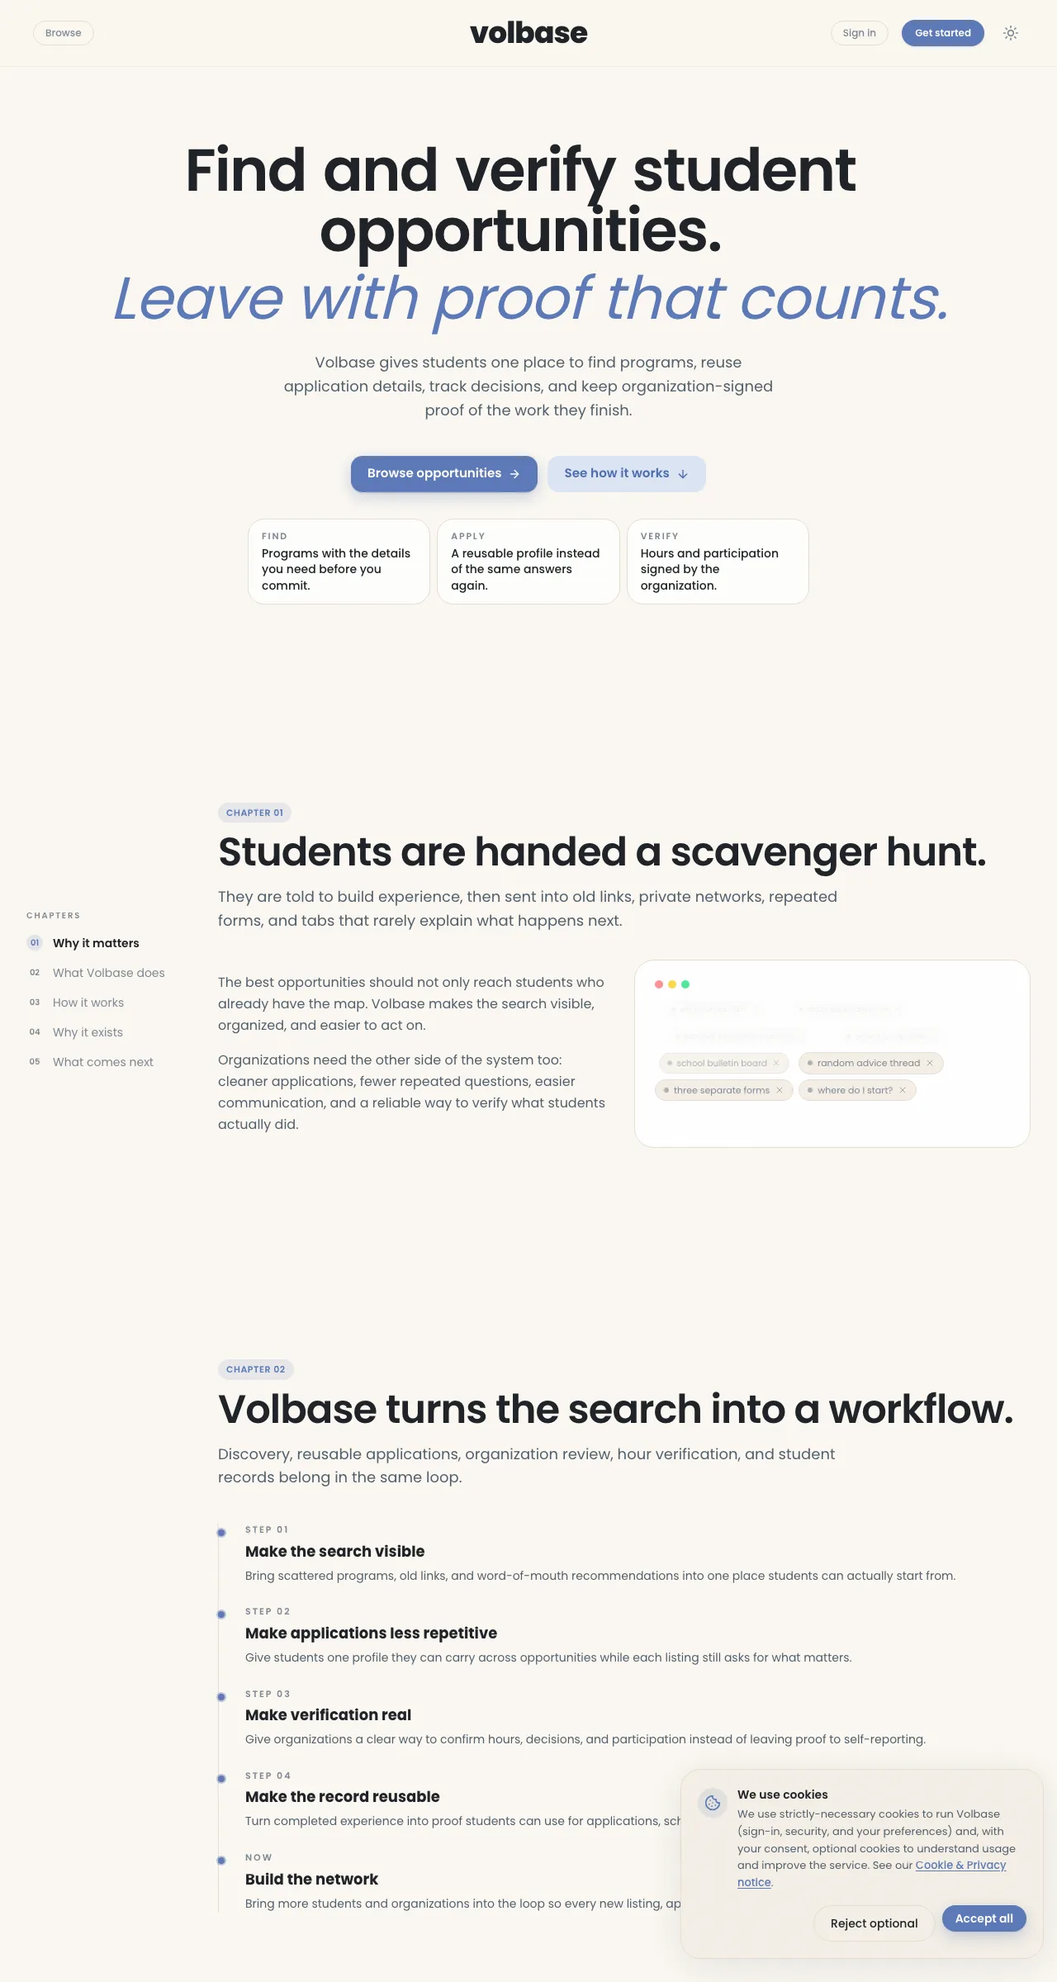
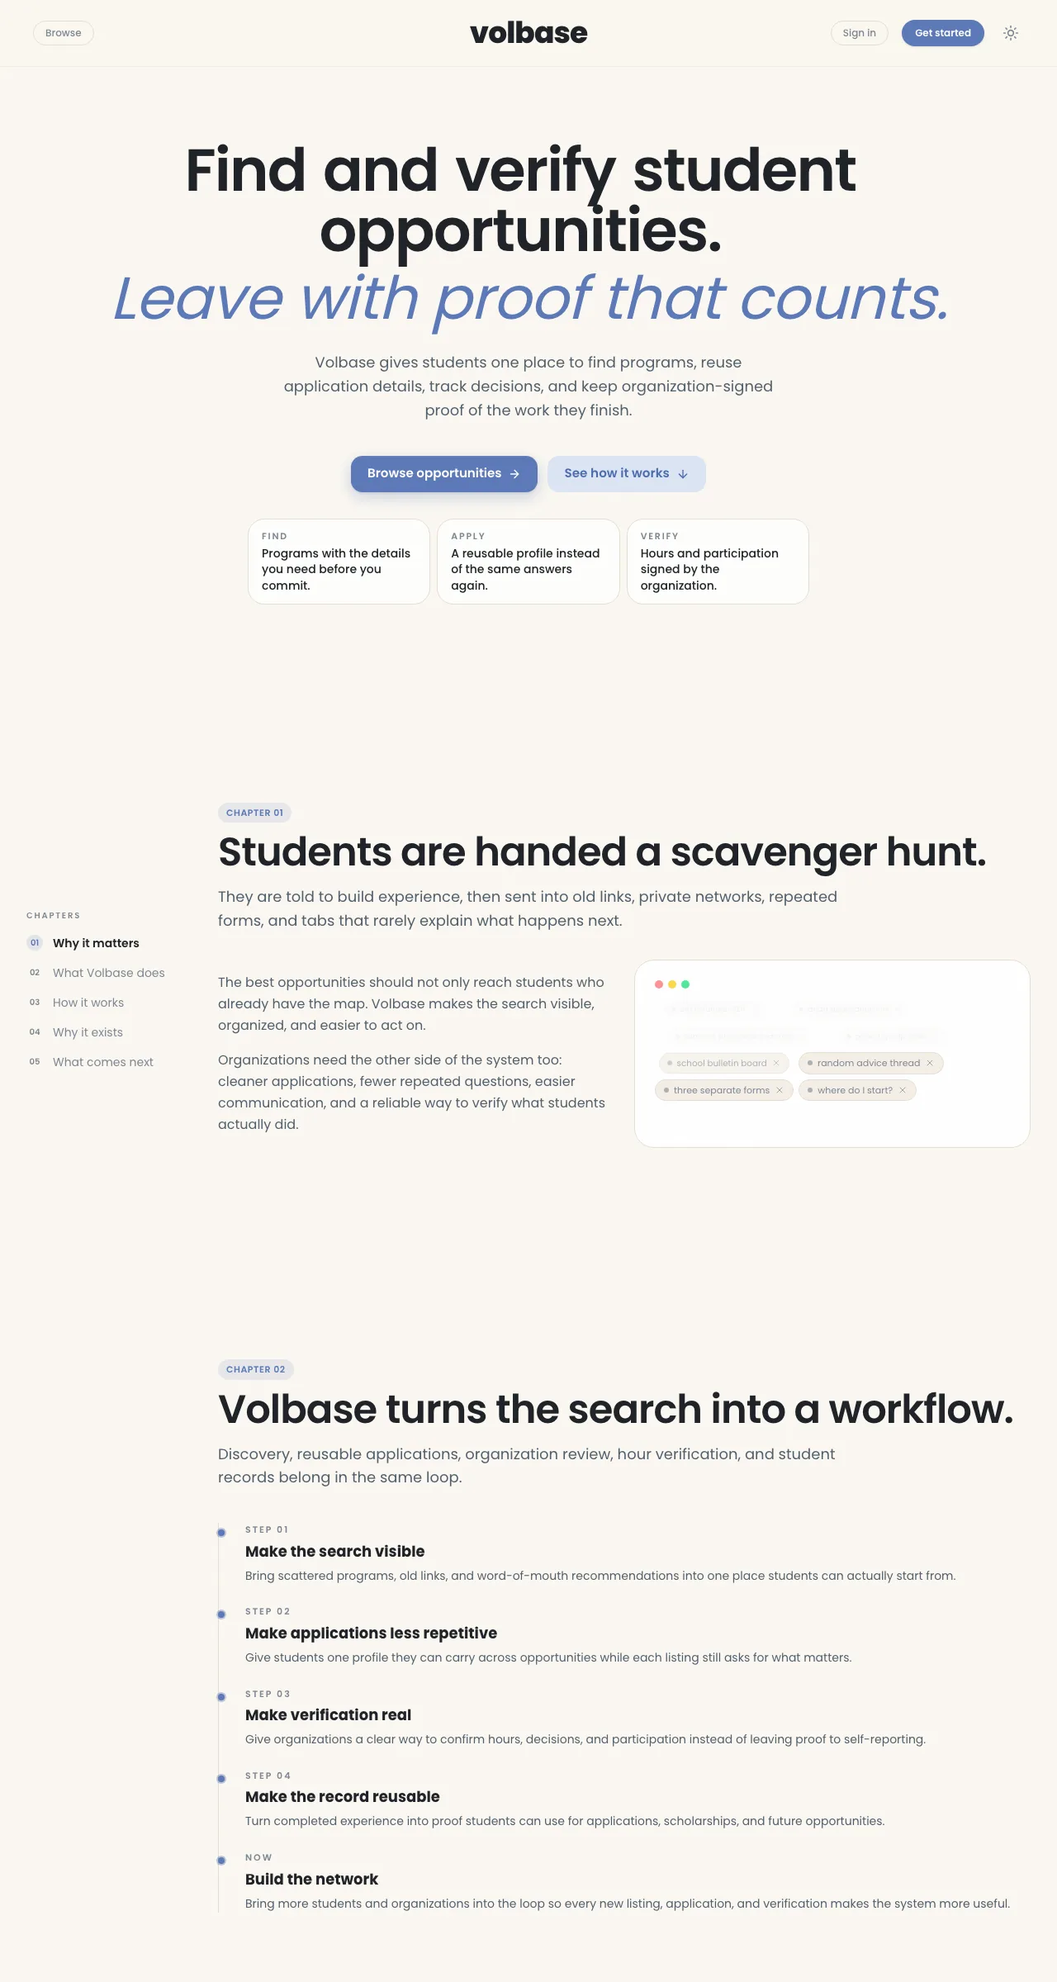
the top-tier pass: craft, live signals, a palette, and words that say each thing once
Research first (three agents: how the best portfolios write, what their shipped CSS actually does, and a cold critique of this page at 6.5/10), then:
- one house easing (.16,1,.3,1) on every hover, press, and settle; 180 ms colour, 260 ms position; accent-tinted selection; text cursors on the sims
- reveals typed by element: masked lines for headlines, lift-and-settle for tiles, a clip wipe for photos, the frame rising once on first entry
- ⌘K (or /) opens a Spotlight-style palette: the four products with ⌘1-4, the sections, GitHub, volbase, Rin's source; arrows, enter, esc; the Work menu now carries the sections too so phones can move
- live signals beside the clock: the weather near Detroit from a keyless API, cached fifteen minutes; the hero face gets sleepy after midnight; the footer names the real commit and deploy date at build time
- from the critique: volbase capture retaken with the cookie banner dismissed; Kyou notification under the status bar; nav nearly solid so dark panels no longer seam it; copy hangs from the frame's top edge and the frame scales from its top; Rin and Market frames sized to their content; flipped tiles keep their name; the walk drifts slowly; demo pill off the phone and off narrow frames; mobile briefing clamped; mobile photo counter; balanced hero and photos lines; About stack as a flex list; Work menu anchored to its trigger
[…]

Changed region(s): [[0.6562, 0.9062, 0.9688, 1.0]]

diff --git a/src/styles/base.css b/src/styles/base.css
@@ -22,7 +22,7 @@ body {
   transition: background-color var(--t-slow) var(--settle);
 }
 
-::selection { background: rgb(var(--espresso) / .12); color: var(--ink); }
+::selection { background: color-mix(in oklab, var(--accent) 22%, transparent); color: var(--ink); }
 
 h1, h2, h3, h4 { margin: 0; font-weight: 600; letter-spacing: var(--track-title); line-height: 1.02; text-wrap: balance; }
 p { margin: 0; }
@@ -61,6 +61,12 @@ ul, ol { margin: 0; padding: 0; list-style: none; }
 .sq { border-radius: var(--r, var(--r-card)); }
 @supports (corner-shape: squircle) { .sq { corner-shape: squircle; } }
 
+/* ── interactive states: one easing, one speed band, everywhere ───
+   hover changes colour in 180 ms and position in 260 ms on the house
+   curve; press is a 120 ms settle; focus is the accent ring. */
+a, button, .tile, .chip, .copy, .shot { transition: color .18s var(--ease), background-color .18s var(--ease), border-color .18s var(--ease), box-shadow .26s var(--ease), transform .26s var(--ease); }
+a:active, button:active { transition-duration: .12s; }
+
 /* ── buttons ─────────────────────────────────────────────────────── */
 .btn {
   --r: var(--r-btn);
@@ -68,10 +74,10 @@ ul, ol { margin: 0; padding: 0; list-style: none; }
   height: 48px; padding-inline: 22px;
   font-size: var(--t-ui); font-weight: 600; letter-spacing: -0.005em;
   border-radius: var(--r); position: relative; isolation: isolate;
-  transition: transform var(--t-base) var(--spring), box-shadow var(--t-base) var(--settle), background-color var(--t-base) var(--settle);
   will-change: transform;
 }
-.btn:active { transform: scale(.97); }
+.btn:hover { transform: translateY(-1px); }
+.btn:active { transform: translateY(0) scale(.98); }
 .btn-solid { background: var(--solid); color: var(--solid-fg); box-shadow: var(--shadow-btn), var(--inset-hi); }
 .btn-solid:hover { box-shadow: 0 4px 8px rgb(var(--espresso) / .14), 0 18px 34px -12px rgb(var(--espresso) / .45), var(--inset-hi); }
 .btn-ghost { background: rgb(var(--espresso) / .05); color: var(--ink); }
@@ -85,7 +91,6 @@ ul, ol { margin: 0; padding: 0; list-style: none; }
   display: inline-flex; align-items: center; gap: 6px; height: 28px; padding-inline: 10px;
   font-family: var(--mono); font-size: var(--t-tiny); font-weight: 520; letter-spacing: .01em;
   color: var(--ink-2); background: rgb(var(--espresso) / .06); border-radius: var(--r);
-  transition: background-color var(--t-fast) var(--settle), color var(--t-fast) var(--settle), transform var(--t-base) var(--spring);
 }
 .chip:hover { background: var(--accent-soft); color: var(--accent); transform: translateY(-1px); }
 
@@ -101,11 +106,20 @@ ul, ol { margin: 0; padding: 0; list-style: none; }
   padding: 3px 7px; border-radius: 999px; backdrop-filter: blur(6px); pointer-events: none;
 }
 
-/* ── reveal primitives (JS splits headlines into lines) ──────────── */
+/* ── reveal primitives, typed by element (JS splits headlines into lines).
+   Only the JS page hides anything; without it the whole page is simply there. */
 .line { display: block; overflow: clip; }
-.line > .line-in { display: block; transform: translateY(110%); }
-.reveal { opacity: 0; transform: translateY(18px); }
-.is-in .reveal, .reveal.is-in { opacity: 1; transform: none; transition: opacity .7s var(--out-quart), transform .9s var(--out-quart); }
+.js .line > .line-in { display: block; transform: translateY(110%); }
+.js .reveal { opacity: 0; transform: translateY(18px); }
+.js .reveal.lift { transform: translateY(28px) scale(.97); }
+.js .is-in .reveal, .js .reveal.is-in { opacity: 1; transform: none; transition: opacity .6s var(--settle), transform .9s var(--ease); }
+.js .reveal.lift.is-in { transition: opacity .5s var(--settle), transform .8s var(--boing); }
+.js [data-wipe] { clip-path: inset(0 100% 0 0 round var(--r, 18px)); }
+.js [data-wipe].is-in { clip-path: inset(0 0 0 0 round var(--r, 18px)); transition: clip-path .9s var(--ease) calc(var(--i, 0) * 70ms); }
+
+/* ── cursors say what a thing does ───────────────────────────────── */
+.term, .ky-field { cursor: text; }
+.shot { cursor: default; }
 
 /* ── grain: static, low, on the dark devices only ────────────────── */
 .grain::after {
@@ -118,8 +132,8 @@ ul, ol { margin: 0; padding: 0; list-style: none; }
 
 @media (prefers-reduced-motion: reduce) {
   html { scroll-behavior: auto; }
-  .line > .line-in { transform: none; }
-  .reveal { opacity: 1; transform: none; }
+  .js .line > .line-in { transform: none; }
+  .js .reveal, .js [data-wipe] { opacity: 1; transform: none; clip-path: none; }
   *, *::before, *::after { animation-duration: .01ms !important; animation-iteration-count: 1 !important; transition-duration: .01ms !important; }
 }
 

diff --git a/src/scripts/palette.ts b/src/scripts/palette.ts
@@ -1,0 +1,55 @@
+/* the palette: Spotlight for the page. ⌘K (or / when nothing has focus) opens
+   it; type to filter; arrows move; enter goes. Items are the page's own map. */
+export type Item = { id: string; name: string; note: string; kbd?: string; dot?: string; go: () => void };
+
+export function initPalette(items: Item[]) {
+  const root = document.querySelector<HTMLElement>('[data-palette]');
+  const input = root?.querySelector<HTMLInputElement>('[data-palette-input]');
+  const list = root?.querySelector<HTMLElement>('[data-palette-list]');
+  const openers = [...document.querySelectorAll<HTMLElement>('[data-palette-open]')];
+  if (!root || !input || !list) return;
+
+  let open = false, cursor = 0, shown: Item[] = items;
+  const render = () => {
+    list.innerHTML = shown.map((it, i) => `
+      <li role="option" aria-selected="${i === cursor}" data-i="${i}" class="pl-row${i === cursor ? ' is-on' : ''}">
+        <span class="pl-dot" style="--dot:${it.dot || 'var(--ink-3)'}"></span>
+        <span class="pl-name">${it.name}</span>
+        <span class="pl-note">${it.note}</span>
+        ${it.kbd ? `<kbd class="mono">${it.kbd}</kbd>` : '<span class="pl-enter mono" aria-hidden="true">↵</span>'}
+      </li>`).join('') || `<li class="pl-empty">nothing here for “${input.value.replace(/</g, '&lt;')}”</li>`;
+  };
+  const filter = () => {
+    const q = input.value.trim().toLowerCase();
+    shown = q ? items.filter((it) => (it.name + ' ' + it.note).toLowerCase().includes(q)) : items;
+    cursor = 0; render();
+  };
+  const set = (v: boolean) => {
+    open = v;
+    root.hidden = !v;
+    document.documentElement.classList.toggle('palette-open', v);
+    openers.forEach((o) => o.setAttribute('aria-expanded', String(v)));
+    if (v) { input.value = ''; filter(); requestAnimationFrame(() => { root.classList.add('is-open'); input.focus(); }); }
+    else { root.classList.remove('is-open'); input.blur(); }
+  };
+  const go = (i: number) => { const it = shown[i]; if (!it) return; set(false); setTimeout(it.go, 60); };
+
+  openers.forEach((o) => o.addEventListener('click', (e) => { e.stopPropagation(); set(!open); }));
+  root.addEventListener('click', (e) => { if (e.target === root) set(false); });
+  input.addEventListener('input', filter);
+  input.addEventListener('keydown', (e) => {
+    if (e.key === 'ArrowDown') { e.preventDefault(); cursor = Math.min(shown.length - 1, cursor + 1); render(); }
+    else if (e.key === 'ArrowUp') { e.preventDefault(); cursor = Math.max(0, cursor - 1); render(); }
+    else if (e.key === 'Enter') { e.preventDefault(); go(cursor); }
+    else if (e.key === 'Escape') { set(false); }
+  });
+  list.addEventListener('click', (e) => { const row = (e.target as HTMLElement).closest<HTMLElement>('[data-i]'); if (row) go(Number(row.dataset.i)); });
+  list.addEventListener('pointermove', (e) => { const row = (e.target as HTMLElement).closest<HTMLElement>('[data-i]'); if (row && Number(row.dataset.i) !== cursor) { cursor = Number(row.dataset.i); render(); } });
+  document.addEventListener('keydown', (e) => {
+    const typing = (e.target as HTMLElement)?.closest?.('input, textarea, [contenteditable]');
+    if ((e.metaKey || e.ctrlKey) && e.key.toLowerCase() === 'k') { e.preventDefault(); set(!open); }
+    else if (e.key === '/' && !typing && !open) { e.preventDefault(); set(true); }
+    else if (e.key === 'Escape' && open) set(false);
+  });
+  return { open: () => set(true), close: () => set(false) };
+}

diff --git a/src/scripts/main.ts b/src/scripts/main.ts
@@ -5,7 +5,9 @@ import Lenis from 'lenis';
 import { initStage } from './stage';
 import { initMenu } from './menu';
 import { startClocks } from './clock';
-import { setFace } from './face';
+import { setFace, hourFace } from './face';
+import { initPalette } from './palette';
+import { startWeather } from './weather';
 import { initPhotos } from './photos';
 
 gsap.registerPlugin(ScrollTrigger, SplitText);
@@ -60,6 +62,10 @@ document.querySelectorAll<HTMLElement>('[data-count]').forEach((el) => {
   });
 });
 
+/* ── late at night the hero's face is sleepy, whatever the hour says elsewhere ── */
+const late = hourFace();
+if (late) { const hero = document.querySelector<HTMLElement>('.hero'); if (hero) hero.dataset.face = late; }
+
 /* ── the live accent: one colour, cross-faded per section ───────── */
 document.querySelectorAll<HTMLElement>('[data-accent]').forEach((sec) => {
   const paint = () => {
@@ -95,9 +101,24 @@ document.querySelectorAll<HTMLButtonElement>('[data-copy]').forEach((b) => {
 
 /* ── boot ───────────────────────────────────────────────────────── */
 startClocks();
+startWeather();
 initMenu(scrollTo);
 const stage = initStage({ scrollTo, reduce });
 initPhotos(reduce);
+const jump = (i: number) => document.dispatchEvent(new CustomEvent('stage:go', { detail: i }));
+initPalette([
+  { id: 'volbase', name: 'volbase', note: 'live at volbase.app', kbd: '⌘1', dot: 'var(--acc-volbase)', go: () => jump(0) },
+  { id: 'rin', name: 'Rin', note: 'a terminal in the menu bar', kbd: '⌘2', dot: 'var(--acc-rin)', go: () => jump(1) },
+  { id: 'kyou', name: 'Kyou', note: 'the whole day on one screen', kbd: '⌘3', dot: 'var(--acc-kyou)', go: () => jump(2) },
+  { id: 'market', name: 'Market Station', note: 'macro, watched all day', kbd: '⌘4', dot: 'var(--acc-market)', go: () => jump(3) },
+  { id: 'elsewhere', name: 'Elsewhere', note: 'robotics, climbing, a warehouse', go: () => scrollTo('#elsewhere', -44) },
+  { id: 'photos', name: 'Photos', note: 'things that hold still', go: () => scrollTo('#photos', -44) },
+  { id: 'about', name: 'About', note: 'the facts, and the local time', go: () => scrollTo('#about', -44) },
+  { id: 'top', name: 'Top', note: 'back to the name', go: () => scrollTo(0) },
+  { id: 'github', name: 'GitHub', note: 'github.com/exata531', dot: 'var(--ink)', go: () => window.open('https://github.com/exata531', '_blank', 'noopener') },
+  { id: 'open-volbase', name: 'Open volbase.app', note: 'the real thing, in a new tab', dot: 'var(--acc-volbase)', go: () => window.open('https://volbase.app', '_blank', 'noopener') },
+  { id: 'rin-source', name: 'Rin on GitHub', note: 'free and open source', dot: 'var(--acc-rin)', go: () => window.open('https://github.com/exata531/Rin', '_blank', 'noopener') },
+]);
 
 const heroSplit = splits.find((s) => (s.elements[0] as HTMLElement).closest('.hero'));
 const tl = gsap.timeline({ defaults: { ease: 'power3.out' }, delay: 0.1 });

diff --git a/src/scripts/stage.ts b/src/scripts/stage.ts
@@ -53,9 +53,9 @@ export function initStage({ scrollTo, reduce }: { scrollTo: (t: string | number,
   // geometry + faces + ctas come from the component's data, mirrored here
   const geo: Record<string, Partial<Product>> = {
     volbase: { w: 960, h: 580, r: 12, face: '(☆_☆)', cta: 'Open volbase', href: 'https://volbase.app' },
-    rin:     { w: 720, h: 470, r: 14, face: '(￣ヮ￣)', cta: 'Try the terminal', href: '#work' },
+    rin:     { w: 720, h: 400, r: 14, face: '(￣ヮ￣)', cta: 'Try the terminal', href: '#work' },
     kyou:    { w: 300, h: 620, r: 54, face: '(´｡• ω •｡`)', cta: 'Try quick-add', href: '#work' },
-    market:  { w: 960, h: 580, r: 14, face: '(•_•)', cta: 'Flip a tile', href: '#work' },
+    market:  { w: 960, h: 480, r: 14, face: '(•_•)', cta: 'Flip a tile', href: '#work' },
   };
   products.forEach((p) => Object.assign(p, geo[p.id]));
   // phones get hand-sized frames, not shrunken desktops
@@ -80,7 +80,9 @@ export function initStage({ scrollTo, reduce }: { scrollTo: (t: string | number,
     const availW = wrap.clientWidth, availH = narrow() ? 1e6 : Math.max(320, window.innerHeight - 96 - 64 - 60);
     const s = Math.min(1, availW / p.w, availH / p.h);
     frame.style.setProperty('--scale', s.toFixed(3));
+    wrap.style.height = `${Math.round(p.h * s)}px`;
     frame.classList.toggle('is-narrow', narrow());
+    frame.classList.toggle('is-phone', p.id === 'kyou');
   }
   window.addEventListener('resize', () => { if (current >= 0) { fit(products[current]); const g = geoFor(products[current]); gsap.set(frame, { '--w': g.w + 'px', '--h': g.h + 'px', '--r': g.r + 'px' }); } });
   function show(i: number) {
@@ -110,6 +112,9 @@ export function initStage({ scrollTo, reduce }: { scrollTo: (t: string | number,
     document.dispatchEvent(new CustomEvent('stage:change', { detail: p.id }));
   }
 
+  // the frame's first entrance: once, from below, on the house curve
+  if (!reduce) { const wrapEl = frame.parentElement!; gsap.set(wrapEl, { opacity: 0, y: 32 }); ScrollTrigger.create({ trigger: sec, start: 'top 80%', once: true, onEnter: () => gsap.to(wrapEl, { opacity: 1, y: 0, duration: 1, ease: 'expo.out' }) }); }
+  window.addEventListener('resize', () => { if (current >= 0) fit(products[current]); });
   const st = ScrollTrigger.create({
     trigger: sec, start: 'top top', end: 'bottom bottom',
     onUpdate: (self) => {

diff --git a/src/scripts/weather.ts b/src/scripts/weather.ts
@@ -1,0 +1,37 @@
+/* the weather beside the clock: one free, keyless fetch for the Detroit area,
+   cached for fifteen minutes. If it fails, the slot stays hidden. */
+const URL = 'https://api.open-meteo.com/v1/forecast?latitude=42.57&longitude=-83.25&current=temperature_2m,weather_code&temperature_unit=fahrenheit&timezone=America%2FDetroit';
+const KEY = 'wx';
+const glyph = (code: number) => {
+  if (code === 0 || code === 1) return 'sun';
+  if (code === 2) return 'part';
+  if (code === 3) return 'cloud';
+  if (code >= 45 && code <= 48) return 'fog';
+  if ((code >= 51 && code <= 67) || (code >= 80 && code <= 82)) return 'rain';
+  if ((code >= 71 && code <= 77) || code === 85 || code === 86) return 'snow';
+  if (code >= 95) return 'storm';
+  return 'cloud';
+};
+const words: Record<string, string> = { sun: 'clear', part: 'partly cloudy', cloud: 'overcast', fog: 'fog', rain: 'rain', snow: 'snow', storm: 'thunderstorms' };
+
+export async function startWeather() {
+  const el = document.querySelector<HTMLElement>('[data-wx]');
+  if (!el) return;
+  try {
+    let data: { t: number; c: number; at: number } | null = null;
+    try { const raw = sessionStorage.getItem(KEY); if (raw) { const v = JSON.parse(raw); if (Date.now() - v.at < 15 * 60 * 1000) data = v; } } catch {}
+    if (!data) {
+      const r = await fetch(URL); if (!r.ok) return;
+      const j = await r.json();
+      data = { t: Math.round(j.current.temperature_2m), c: j.current.weather_code, at: Date.now() };
+      try { sessionStorage.setItem(KEY, JSON.stringify(data)); } catch {}
+    }
+    const g = glyph(data.c);
+    el.dataset.wx = g;
+    el.querySelector('[data-wx-t]')!.textContent = `${data.t}°`;
+    el.title = `${words[g]}, ${data.t}°F near Detroit`;
+    el.setAttribute('aria-label', el.title);
+    el.hidden = false;
+    requestAnimationFrame(() => el.classList.add('is-in'));
+  } catch { /* the bar simply has no weather today */ }
+}

diff --git a/src/scripts/photos.ts b/src/scripts/photos.ts
@@ -14,8 +14,15 @@ export function initPhotos(reduce: boolean) {
   // the headline sits inside a sticky box, which IntersectionObserver misjudges;
   // the section itself is tall and honest, so the section trigger reveals the head
   const head = [...sec.querySelectorAll<HTMLElement>('.photos-head .reveal')];
-  const showHead = () => head.forEach((h) => h.classList.add('is-in'));
-  if (reduce || matchMedia('(max-width: 820px)').matches) { showHead(); return; }
+  const shotsAll = [...sec.querySelectorAll<HTMLElement>('[data-shot]')];
+  const showHead = () => { head.forEach((h) => h.classList.add('is-in')); shotsAll.forEach((s) => s.classList.add('is-in')); };
+  if (reduce || matchMedia('(max-width: 820px)').matches) {
+    showHead();
+    // on phones the rail scrolls natively; the counter follows the swipe
+    const all = [...rail.querySelectorAll<HTMLElement>('[data-shot]')];
+    rail.addEventListener('scroll', () => { const mid = rail.scrollLeft + rail.clientWidth / 2; let k = 0; all.forEach((s, i) => { if (s.offsetLeft <= mid) k = i; }); if (idx) idx.textContent = String(k + 1).padStart(2, '0'); }, { passive: true });
+    return;
+  }
   ScrollTrigger.create({ trigger: sec, start: 'top 70%', once: true, onEnter: showHead });
   const shots = [...rail.querySelectorAll<HTMLElement>('[data-shot]')];
   const dist = () => rail.scrollWidth - window.innerWidth + 40;

diff --git a/src/scripts/scenes/market.ts b/src/scripts/scenes/market.ts
@@ -26,10 +26,10 @@ export function initMarket(root: HTMLElement) {
 
   let live = false, timer: number | null = null, t0 = 0;
   const tick = () => {
-    for (const s of series) { const last = s.pts[s.pts.length - 1]; const next = last + (Math.random() - 0.5) * s.base * 0.012 + (s.base - last) * 0.06; s.pts.push(next); s.pts.shift(); draw(s); }
+    for (const s of series) { const last = s.pts[s.pts.length - 1]; const next = last + (Math.random() - 0.5) * s.base * 0.003 + (s.base - last) * 0.03; s.pts.push(next); s.pts.shift(); draw(s); }
     if (clock) { const d = new Date(); clock.textContent = d.toLocaleTimeString('en-US', { hour: 'numeric', minute: '2-digit', second: '2-digit' }); }
   };
-  const start = () => { if (!live) { live = true; timer = window.setInterval(tick, 900); } };
+  const start = () => { if (!live) { live = true; timer = window.setInterval(tick, 1600); } };
   const stop = () => { if (live) { live = false; if (timer) clearInterval(timer); } };
 
   const states = ['armed', 'fired', 'easing', 'recovered'];

diff --git a/src/scripts/menu.ts b/src/scripts/menu.ts
@@ -10,7 +10,8 @@ export function initMenu(scrollTo: (t: string | number, o?: number) => void) {
     else { menu.classList.remove('is-open'); setTimeout(() => { if (!open) menu.hidden = true; }, 240); }
     toggles.forEach((t) => t.setAttribute('aria-expanded', String(v)));
   };
-  toggles.forEach((t) => t.addEventListener('click', (e) => { e.stopPropagation(); set(!open); }));
+  toggles.forEach((t) => t.addEventListener('click', (e) => { e.stopPropagation(); menu.style.left = `${Math.max(10, t.offsetLeft - 6)}px`; menu.style.transformOrigin = '24px 0'; set(!open); }));
+  menu.querySelectorAll<HTMLAnchorElement>('[data-menu-go]').forEach((a) => a.addEventListener('click', () => set(false)));
   document.addEventListener('click', (e) => { if (open && !menu.contains(e.target as Node)) set(false); });
   document.addEventListener('keydown', (e) => {
     if (e.key === 'Escape' && open) set(false);

diff --git a/src/styles/tokens.css b/src/styles/tokens.css
@@ -93,6 +93,7 @@
   --spring:   cubic-bezier(.34, 1.2, .64, 1);
   --settle:   cubic-bezier(0, 0, .2, 1);
   --out-expo: cubic-bezier(.16, 1, .3, 1);
+  --ease:     var(--out-expo);        /* the house curve: every hover, press, and settle */
   --out-quart:cubic-bezier(.22, 1, .36, 1);
   --t-fast: 120ms;
   --t-base: 240ms;
